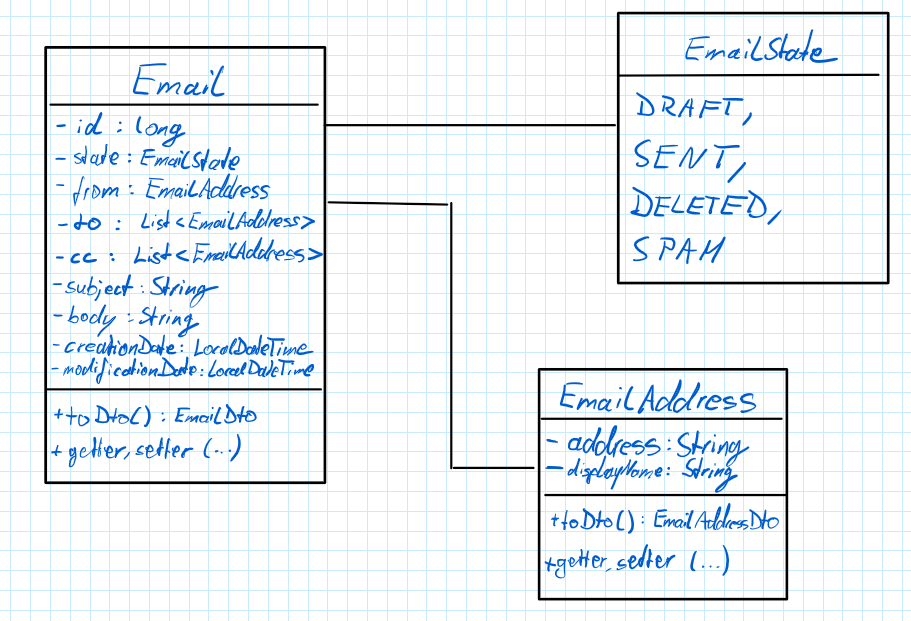
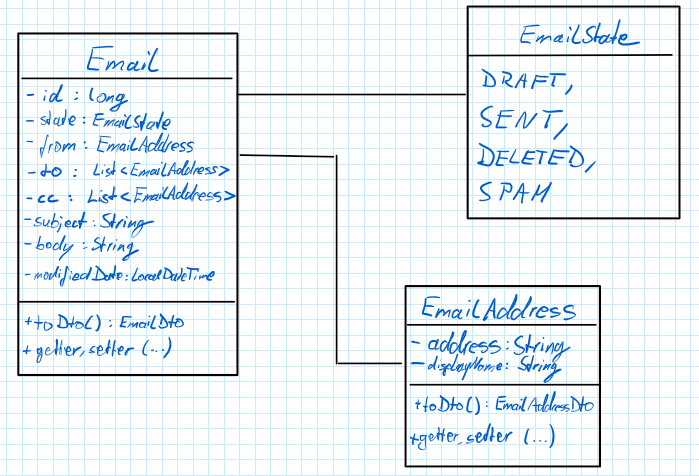
Merges date fields of email to single modifiedDate field

diff --git a/src/main/java/de/jjakobus/emailrestservice/model/Email.java b/src/main/java/de/jjakobus/emailrestservice/model/Email.java
@@ -56,13 +56,9 @@ public class Email {
   @NotNull
   private String body;
 
-  /** The date the email was created. */
-  @NotNull
-  private LocalDateTime creationDate;
-
   /** The date the email was modified last. */
   @NotNull
-  private LocalDateTime modificationDate;
+  private LocalDateTime modifiedDate;
 
 
   /* constructors */
@@ -80,8 +76,7 @@ public class Email {
    * @param cc cc receivers (can be an empty list)
    * @param subject subject of the email (can be an empty string)
    * @param body main content (can be an empty string)
-   * @param creationDate date of creation
-   * @param modificationDate date of last modification
+   * @param modifiedDate date of last modification
    */
   public Email(
       EmailState state,
@@ -90,16 +85,14 @@ public class Email {
       List<EmailAddress> cc,
       String subject,
       String body,
-      LocalDateTime creationDate,
-      LocalDateTime modificationDate) {
+      LocalDateTime modifiedDate) {
     this.state = requireNonNull(state, "state must not be null.");
     this.from = requireNonNull(from, "from must not be null.");
     this.to = requireNonNull(to, "to must not be null.");
     this.cc = requireNonNull(cc, "cc must not be null.");
     this.subject = requireNonNull(subject, "subject must not be null.");
     this.body = requireNonNull(body, "body must not be null.");
-    this.creationDate = requireNonNull(creationDate, "creationDate must not be null.");
-    this.modificationDate = requireNonNull(modificationDate, "modificationDate must not be null.");
+    this.modifiedDate = requireNonNull(modifiedDate, "modifiedDate must not be null.");
   }
 
   /**
@@ -118,9 +111,7 @@ public class Email {
         cc.stream().map(EmailAddress::toDto).toList(),
         subject,
         body,
-        creationDate,
-        modificationDate
-    );
+        modifiedDate);
   }
 
   /* getter + setter methods. */
@@ -181,20 +172,12 @@ public class Email {
     this.body = requireNonNull(body, "body must not be null.");
   }
 
-  public LocalDateTime getCreationDate() {
-    return creationDate;
+  public LocalDateTime getModifiedDate() {
+    return modifiedDate;
   }
 
-  public void setCreationDate(LocalDateTime creationDate) {
-    this.creationDate = requireNonNull(creationDate, "creationDate must not be null.");
-  }
-
-  public LocalDateTime getModificationDate() {
-    return modificationDate;
-  }
-
-  public void setModificationDate(LocalDateTime modificationDate) {
-    this.modificationDate = requireNonNull(modificationDate, "modificationDate must not be null.");
+  public void setModifiedDate(LocalDateTime modifiedDate) {
+    this.modifiedDate = requireNonNull(modifiedDate, "modifiedDate must not be null.");
   }
 
   /* equals, hashCode, toString */
@@ -213,13 +196,12 @@ public class Email {
         && Objects.equals(to, email.to)
         && Objects.equals(cc, email.cc)
         && Objects.equals(body, email.body)
-        && Objects.equals(creationDate, email.creationDate)
-        && Objects.equals(modificationDate, email.modificationDate);
+        && Objects.equals(modifiedDate, email.modifiedDate);
   }
 
   @Override
   public int hashCode() {
-    return Objects.hash(state, from, to, cc, body, creationDate, modificationDate);
+    return Objects.hash(state, from, to, cc, body, modifiedDate);
   }
 
   @Override
@@ -231,8 +213,7 @@ public class Email {
         ", to=" + to +
         ", cc=" + cc +
         ", body='" + body + '\'' +
-        ", creationDate=" + creationDate +
-        ", modificationDate=" + modificationDate +
+        ", modifiedDate=" + modifiedDate +
         '}';
   }
 }

diff --git a/src/test/java/de/jjakobus/emailrestservice/EmailRestServiceAppIT.java b/src/test/java/de/jjakobus/emailrestservice/EmailRestServiceAppIT.java
@@ -7,10 +7,8 @@ import de.jjakobus.emailrestservice.model.dtos.EmailAddressDto;
 import de.jjakobus.emailrestservice.model.dtos.EmailDto;
 import de.jjakobus.emailrestservice.model.dtos.InsertDraftEmailDto;
 import de.jjakobus.emailrestservice.model.dtos.InsertReceivedEmailDto;
-import de.jjakobus.emailrestservice.service.EmailAddressRepositoryService;
-import de.jjakobus.emailrestservice.service.EmailRepositoryService;
-import org.junit.jupiter.api.AfterAll;
-import org.junit.jupiter.api.BeforeAll;
+import de.jjakobus.emailrestservice.service.repositories.EmailAddressRepository;
+import de.jjakobus.emailrestservice.service.repositories.EmailRepository;
 import org.junit.jupiter.api.BeforeEach;
 import org.junit.jupiter.api.Test;
 import org.springframework.beans.factory.annotation.Autowired;
@@ -52,6 +50,9 @@ class EmailRestServiceAppIT {
   private static final String HOST_ADDRESS = "http://localhost";
   private static final String PATH = "/emails-test";
 
+  /**
+   * Postgres docker container for this integration test.
+   */
   @Container
   @ServiceConnection
   @SuppressWarnings("resource") // Misleading warning about closable container when chaining with...() calls.
@@ -62,17 +63,6 @@ class EmailRestServiceAppIT {
           .withPassword("test")
           .withExposedPorts(5432);
 
-  @BeforeAll
-  static void startPostgresContainer() {
-    postgresContainer.start();
-  }
-
-  @AfterAll
-  static void stopPostgresContainer() {
-    postgresContainer.stop();
-    postgresContainer.close();
-  }
-
   /** The random port used for the application in test. */
   @LocalServerPort
   private int port;
@@ -81,11 +71,13 @@ class EmailRestServiceAppIT {
   @Autowired
   private TestRestTemplate restTemplate;
 
+  /** Repository of email addresses in database. */
   @Autowired
-  private EmailAddressRepositoryService addressRepository;
+  private EmailAddressRepository addressRepository;
 
+  /** Repository of emails in database. */
   @Autowired
-  private EmailRepositoryService emailRepository;
+  private EmailRepository emailRepository;
 
   /** Base address for requests. */
   private String baseRequestAddress;
@@ -112,7 +104,6 @@ class EmailRestServiceAppIT {
         List.of(),
         "Sample subject",
         "Sample body content.",
-        LocalDateTime.now(),
         LocalDateTime.now());
     emailRepository.save(exampleEntity);
   }
@@ -213,8 +204,7 @@ class EmailRestServiceAppIT {
         && insertDto.cc().equals(email.cc())
         && insertDto.subject().equals(email.subject())
         && insertDto.body().equals(email.body())
-        && insertDto.date().equals(email.creationDate())
-        && email.creationDate().equals(email.modificationDate()); // Creation and modification date should be equal.
+        && insertDto.modifiedDate().equals(email.modifiedDate());
   }
 
   @Test
@@ -252,7 +242,6 @@ class EmailRestServiceAppIT {
             draftEmail.cc(),
             "Changed subject",
             "new body content",
-            draftEmail.creationDate(),
             LocalDateTime.now());
 
     // When
@@ -316,7 +305,6 @@ class EmailRestServiceAppIT {
         List.of(),
         "Draft subject",
         "Hello,\n\nGoodbye!",
-        LocalDateTime.of(2024, 5, 29, 15, 12, 30),
         LocalDateTime.of(2024, 5, 31, 10, 8, 54)
     );
   }

diff --git a/src/main/java/de/jjakobus/emailrestservice/model/dtos/EmailDto.java b/src/main/java/de/jjakobus/emailrestservice/model/dtos/EmailDto.java
@@ -17,8 +17,7 @@ import static java.util.Objects.requireNonNull;
  * @param cc the "carbon copy" receivers of the mail
  * @param subject subject of the email (can be empty)
  * @param body body (the main content) of the mail (can be empty)
- * @param creationDate the date the email was created
- * @param modificationDate the date the email was modified last
+ * @param modifiedDate the date the email was modified last
  * @author jjakobus
  */
 public record EmailDto(
@@ -29,8 +28,7 @@ public record EmailDto(
     List<EmailAddressDto> cc,
     String subject,
     String body,
-    LocalDateTime creationDate,
-    LocalDateTime modificationDate) {
+    LocalDateTime modifiedDate) {
 
   public EmailDto(
       long id,
@@ -40,8 +38,7 @@ public record EmailDto(
       List<EmailAddressDto> cc,
       String subject,
       String body,
-      LocalDateTime creationDate,
-      LocalDateTime modificationDate) {
+      LocalDateTime modifiedDate) {
     this.id = id;
     this.state = requireNonNull(state, "state must not be null.");
     this.from = requireNonNull(from, "from must not be null.");
@@ -49,7 +46,6 @@ public record EmailDto(
     this.cc = requireNonNull(cc, "cc must not be null.");
     this.subject = requireNonNull(subject, "subject must not be null.");
     this.body = requireNonNull(body, "body must not be null.");
-    this.creationDate = requireNonNull(creationDate, "creationDate must not be null.");
-    this.modificationDate = requireNonNull(modificationDate, "modificationDate must not be null.");
+    this.modifiedDate = requireNonNull(modifiedDate, "modifiedDate must not be null.");
   }
 }

diff --git a/src/main/java/de/jjakobus/emailrestservice/model/dtos/InsertReceivedEmailDto.java b/src/main/java/de/jjakobus/emailrestservice/model/dtos/InsertReceivedEmailDto.java
@@ -17,7 +17,7 @@ import static java.util.Objects.requireNonNull;
  * @param cc "carbon copy" receiver addresses
  * @param subject subject of the email
  * @param body content
- * @param date date of the email received (e.g. date of receiving or date of sent)
+ * @param modifiedDate date of the email received (= last modification date)
  * @author jjakobus
  */
 public record InsertReceivedEmailDto(
@@ -26,7 +26,7 @@ public record InsertReceivedEmailDto(
     List<EmailAddressDto> cc,
     String subject,
     String body,
-    LocalDateTime date) {
+    LocalDateTime modifiedDate) {
 
   public InsertReceivedEmailDto(
       EmailAddressDto from,
@@ -34,13 +34,13 @@ public record InsertReceivedEmailDto(
       List<EmailAddressDto> cc,
       String subject,
       String body,
-      LocalDateTime date) {
+      LocalDateTime modifiedDate) {
     this.from = requireNonNull(from, "from must not be null.");
     this.to = requireNonNull(to, "to must not be null.");
     this.cc = requireNonNull(cc, "cc must not be null.");
     this.subject = requireNonNull(subject, "subject must not be null.");
     this.body = requireNonNull(body, "body must not be null.");
-    this.date = requireNonNull(date, "date must not be null.");
+    this.modifiedDate = requireNonNull(modifiedDate, "modifiedDate must not be null.");
   }
 
   /**

diff --git a/src/test/java/de/jjakobus/emailrestservice/model/EmailTest.java b/src/test/java/de/jjakobus/emailrestservice/model/EmailTest.java
@@ -27,7 +27,6 @@ class EmailTest {
         List.of(getExampleAddress(), getExampleAddress()),
         "Subject string",
         "Body string",
-        date,
         date);
     EmailDto expectedDto = new EmailDto(
         entity.getId(),
@@ -37,7 +36,6 @@ class EmailTest {
         List.of(getExampleAddressDto(), getExampleAddressDto()),
         "Subject string",
         "Body string",
-        date,
         date);
 
     // When
@@ -60,7 +58,6 @@ class EmailTest {
         List.of(),
         "",
         "",
-        date,
         date);
     EmailDto expectedDto = new EmailDto(
         entity.getId(),
@@ -70,7 +67,6 @@ class EmailTest {
         List.of(),
         "",
         "",
-        date,
         date);
 
     // When
